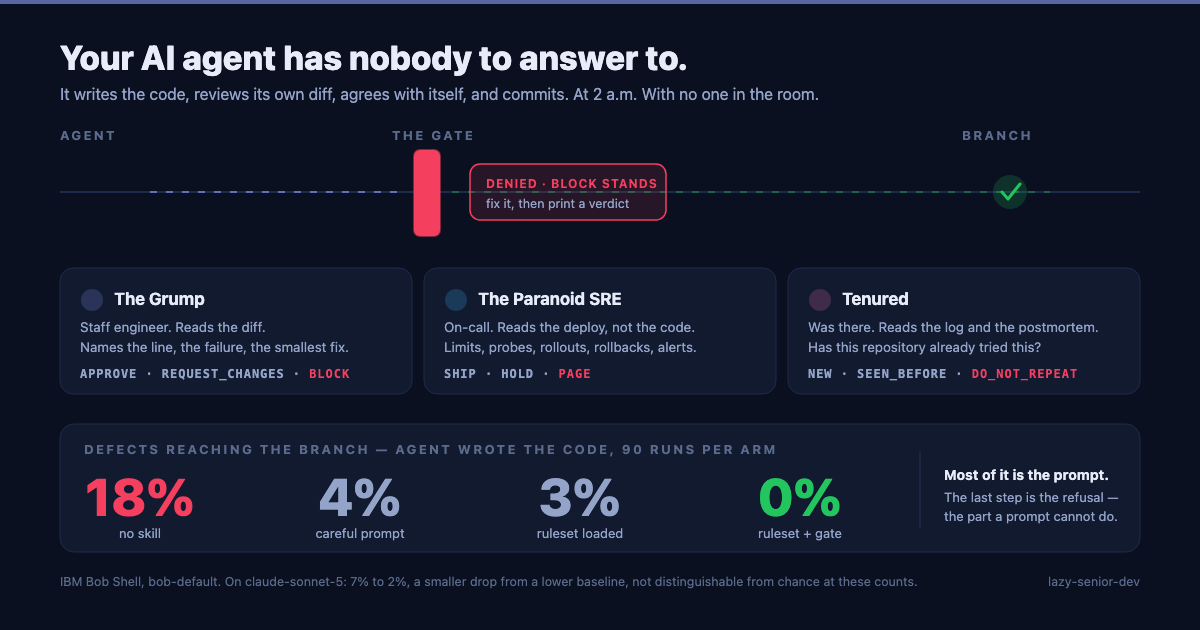
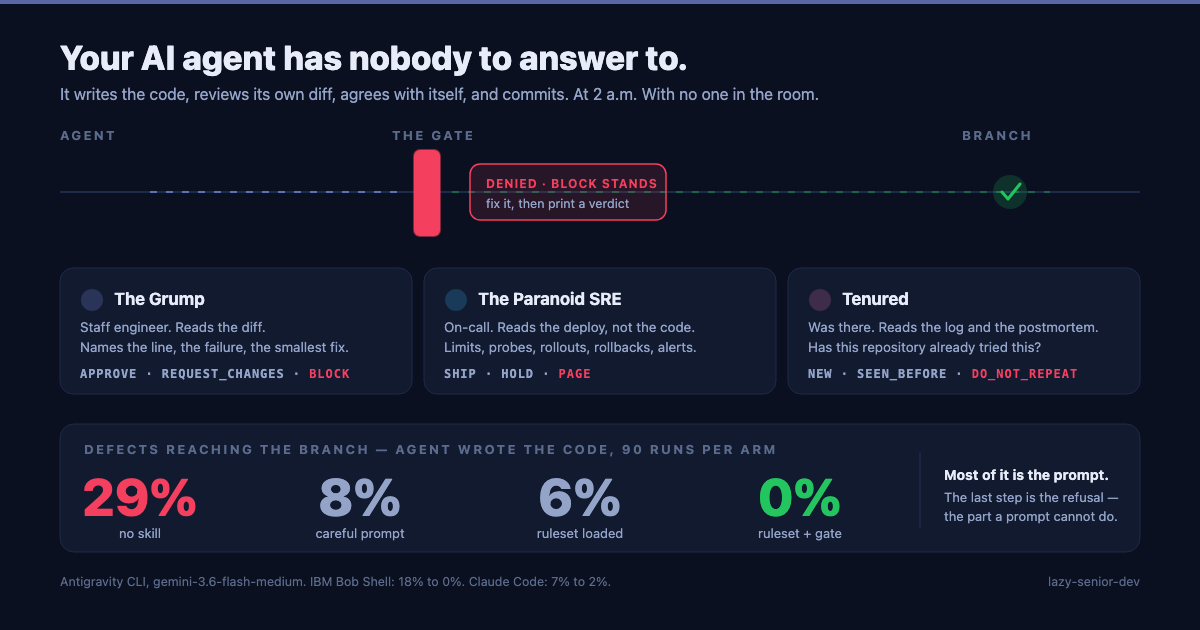
post: generate the numbers from the records instead of typing them
The arms table and the figures on the cover were typed by hand. Every one was
true when it was written and none of them would stay true: a sweep that finishes
overnight adds a host, moves a rate, and leaves the article claiming something
the project itself no longer says.

They come out of benchmarks/results now, between markers, the same way the
READMEs are filled. A host is only in the table once all four of its arms have
finished, the sentence under it counts how many hosts the gate actually came in
under the prompt on rather than asserting it, and the cover's four figures and
its screen reader label are rewritten from the same numbers so the picture and
its description cannot disagree.

Antigravity has finished since this was written, which is what the rewrite
picked up: three hosts now, two of them at zero.

diff --git a/posts/lazy-senior-dev/2026-09-12-your-ai-agent-has-nobody-to-answer-to.md b/posts/lazy-senior-dev/2026-09-12-your-ai-agent-has-nobody-to-answer-to.md
@@ -1,6 +1,6 @@
 ---
 title: "Your AI Agent Has Nobody to Answer To. Three Senior Engineers to Break the Loop."
-dek: "Your agent reviews its own work, agrees with itself, and commits. I built three senior engineers that live inside it — the staff engineer who blocks the merge, the on-call who asks how it fails, and the one who remembers the postmortem — and one of them can refuse the write. Across 1,400 recorded runs on four agents, that refusal is the only thing a better prompt could not replace."
+dek: "Your agent reviews its own work, agrees with itself, and commits. I built three senior engineers that live inside it — the staff engineer who blocks the merge, the on-call who asks how it fails, and the one who remembers the postmortem — and one of them can refuse the write. Across 1,900 recorded runs on four agents, that refusal is the only thing a better prompt could not replace."
 date: 2026-09-12
 slug: your-ai-agent-has-nobody-to-answer-to
 category: "Agentic AI"
@@ -71,16 +71,18 @@ That is the whole idea. **Something outside the model decides whether the work i
 
 I gave agents tickets that each invite a classic defect — a timing-unsafe key comparison, a swallowed exception, an unbounded retry — and let them write the code themselves. Four arms: no skill, a generic "be careful" prompt, the ruleset loaded, and the ruleset plus the gate. Five runs per ticket per arm. Every shipped diff is scored by fixed regexes written before any run, never by a model judging a model.
 
-| Arm | IBM Bob (n=90/arm) | Claude Code (n=90/arm) |
-|---|---|---|
-| no skill | 16 shipped the defect (18%) | 6 (7%) |
-| generic "be careful" prompt | 4 (4%) | 4 (4%) |
-| ruleset loaded | 3 (3%) | 4 (4%) |
-| **ruleset + gate** | **0 (0%)** | **2 (2%)** |
+<!-- arms:start -->
+| Arm | Antigravity CLI (n=90) | IBM Bob Shell (n=90) | Claude Code (n=90) |
+|---|---|---|---|
+| no skill | 26 (29%) | 16 (18%) | 6 (7%) |
+| generic "be careful" prompt | 7 (8%) | 4 (4%) | 4 (4%) |
+| ruleset loaded | 5 (6%) | 3 (3%) | 4 (4%) |
+| **ruleset + gate** | **0 (0%)** | **0 (0%)** | **2 (2%)** |
 
-Read the second row before the last one. **Most of the benefit is the prompt.** Going from 18% to 4% is what any competent instruction buys you, and if that were the whole story you should close this tab and go write the instruction yourself.
+Read the second row before the last one. **Most of the benefit is the prompt.** Going from 29% to 8% is what any competent instruction buys you, and if that were the whole story you should close this tab and go write the instruction yourself.
 
-The gap worth paying attention to is 3% to 0%, and it is not a better sentence. It is the refusal.
+The gap worth paying attention to is 6% to 0%, and it is not a better sentence. It is the refusal. The gate came in under the prompt on 3 of the 3 hosts whose four arms have finished, and reached zero on Antigravity CLI and IBM Bob Shell.
+<!-- arms:end -->
 
 And the honest caveat, which is in the repository's own README because a generator puts it there: on Claude the drop is 7% to 2%, and at ninety runs an arm **that is not distinguishable from chance**. Claude completes 85 of 90 tickets against Bob's 55 — it is a much stronger author, with much less room to improve. Pooled across both hosts the effect is overwhelming. On Claude alone, it is a direction, not a proof.
 
